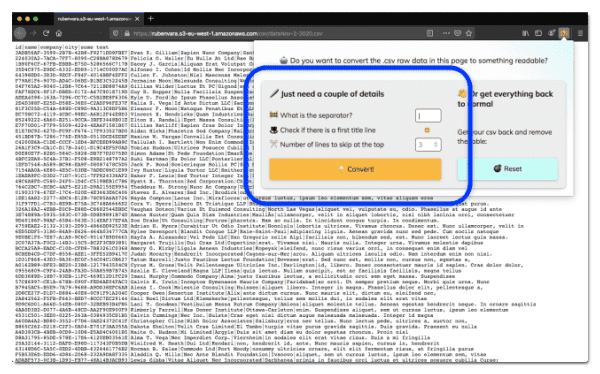
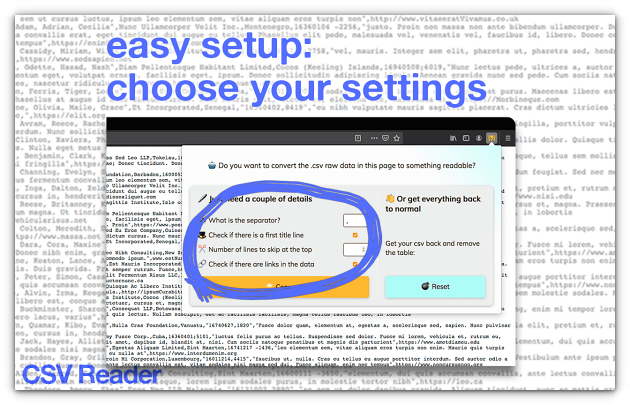
new images for docs and extension pages 📷

diff --git a/README.md b/README.md
@@ -1,4 +1,4 @@
-# CSV Reader
+![CSV Reader](/docs/promo.png)
 
 🚧 Work in Progress... 🚧
 
@@ -90,7 +90,7 @@ Some features I'd like to work on (help appreciated):
 - [x] Update README and Firefox page with images and examples of usage.
 - [x] Add some useful data in the result page (number of rows and columns, etc.).
 - [x] Ask users in the result page to leave a 5⭐ review please.
-- [ ] Make table header **sticky**, so it stays at the top while scrolling.
+- [x] Make table header **sticky**, so it stays at the top while scrolling.
 - [x] Remove `""` from the strings if they are at begining and end of string.
 - [x] 'Doesn't work here' message: add 'if you feel this is an error please report it'.
 - [ ] Try to stop .csv files from **downloading**, and instead open them in browser so thay can be converted.
